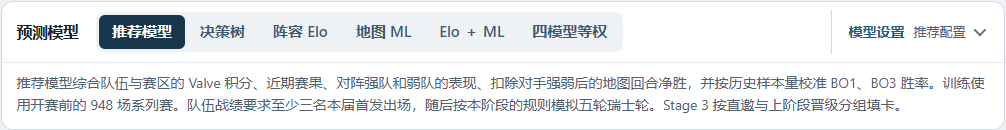
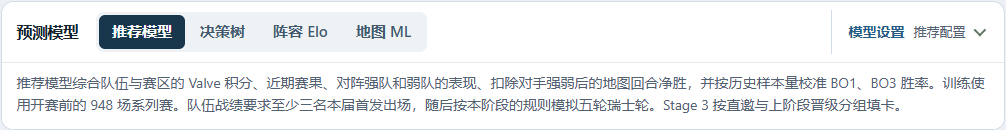
Remove ensemble choices from the prediction interface

Changed region(s): [[0.4314, 0.1846, 0.6163, 0.3077]]

diff --git a/dist/research-models.js b/dist/research-models.js
@@ -1,8 +1,8 @@
 /* Browser and worker adapter for the locally reproduced pre-event Elo and map models. */
 (() => {
   'use strict';
-  const data = {"fields":{"copenhagen":{"cutoff":"2024-03-17","series":3272,"train":3296,"cal":696,"scores":{"fourWay":{"conditional":4,"pass":4,"expected":4,"robust":4,"seed":3},"elo":{"conditional":4,"pass":3,"expected":3,"robust":3,"seed":3},"ml":{"conditional":4,"pass":5,"expected":3,"robust":3,"seed":3},"hybrid":{"conditional":4,"pass":5,"expected":2,"robust":2,"seed":3}}},"copenhagen-2024-2":{"cutoff":"2024-03-21","series":3341,"train":3373,"cal":718,"scores":{"fourWay":{"conditional":7,"pass":5,"expected":5,"robust":5,"seed":6},"elo":{"conditional":7,"pass":5,"expected":5,"robust":5,"seed":6},"ml":{"conditional":7,"pass":5,"expected":5,"robust":5,"seed":6},"hybrid":{"conditional":6,"pass":4,"expected":4,"robust":4,"seed":6}}},"shanghai":{"cutoff":"2024-11-30","series":4668,"train":9187,"cal":1469,"scores":{"fourWay":{"conditional":6,"pass":3,"expected":5,"robust":5,"seed":3},"elo":{"conditional":6,"pass":5,"expected":6,"robust":6,"seed":3},"ml":{"conditional":3,"pass":2,"expected":5,"robust":5,"seed":3},"hybrid":{"conditional":6,"pass":5,"expected":6,"robust":6,"seed":3}}},"shanghai-2024-2":{"cutoff":"2024-12-05","series":4546,"train":9151,"cal":1472,"scores":{"fourWay":{"conditional":7,"pass":7,"expected":7,"robust":7,"seed":5},"elo":{"conditional":6,"pass":6,"expected":6,"robust":6,"seed":5},"ml":{"conditional":7,"pass":7,"expected":7,"robust":7,"seed":5},"hybrid":{"conditional":7,"pass":7,"expected":7,"robust":7,"seed":5}}},"austin":{"cutoff":"2025-06-03","series":4424,"train":10695,"cal":2113,"scores":{"fourWay":{"conditional":6,"pass":5,"expected":5,"robust":5,"seed":6},"elo":{"conditional":3,"pass":3,"expected":3,"robust":3,"seed":6},"ml":{"conditional":5,"pass":4,"expected":4,"robust":4,"seed":6},"hybrid":{"conditional":5,"pass":4,"expected":4,"robust":4,"seed":6}}},"austin-2025-2":{"cutoff":"2025-06-07","series":4390,"train":10613,"cal":2101,"scores":{"fourWay":{"conditional":3,"pass":2,"expected":3,"robust":3,"seed":3},"elo":{"conditional":2,"pass":2,"expected":2,"robust":2,"seed":3},"ml":{"conditional":2,"pass":3,"expected":4,"robust":4,"seed":3},"hybrid":{"conditional":2,"pass":2,"expected":4,"robust":4,"seed":3}}},"austin-2025-3":{"cutoff":"2025-06-12","series":4415,"train":10510,"cal":2028,"scores":{"fourWay":{"conditional":3,"pass":5,"expected":2,"robust":2,"seed":3},"elo":{"conditional":5,"pass":4,"expected":5,"robust":5,"seed":3},"ml":{"conditional":4,"pass":4,"expected":4,"robust":4,"seed":3},"hybrid":{"conditional":3,"pass":5,"expected":3,"robust":3,"seed":3}}},"budapest":{"cutoff":"2025-11-24","series":4865,"train":11922,"cal":2928,"scores":{"fourWay":{"conditional":5,"pass":4,"expected":4,"robust":4,"seed":6},"elo":{"conditional":4,"pass":3,"expected":3,"robust":3,"seed":6},"ml":{"conditional":5,"pass":5,"expected":4,"robust":4,"seed":6},"hybrid":{"conditional":4,"pass":3,"expected":3,"robust":3,"seed":6}}},"budapest-2025-2":{"cutoff":"2025-11-29","series":4874,"train":12179,"cal":2736,"scores":{"fourWay":{"conditional":5,"pass":6,"expected":6,"robust":6,"seed":4},"elo":{"conditional":5,"pass":4,"expected":5,"robust":5,"seed":4},"ml":{"conditional":4,"pass":4,"expected":4,"robust":4,"seed":4},"hybrid":{"conditional":4,"pass":4,"expected":4,"robust":4,"seed":4}}},"budapest-2025-3":{"cutoff":"2025-12-04","series":4912,"train":12191,"cal":2504,"scores":{"fourWay":{"conditional":3,"pass":3,"expected":3,"robust":3,"seed":4},"elo":{"conditional":3,"pass":3,"expected":3,"robust":3,"seed":4},"ml":{"conditional":3,"pass":3,"expected":3,"robust":3,"seed":4},"hybrid":{"conditional":3,"pass":3,"expected":3,"robust":3,"seed":4}}},"cologne":{"cutoff":"2026-06-02","series":3361,"train":13088,"cal":637,"scores":{"fourWay":{"conditional":3,"pass":3,"expected":2,"robust":2,"seed":4},"elo":{"conditional":2,"pass":5,"expected":5,"robust":5,"seed":4},"ml":{"conditional":2,"pass":2,"expected":2,"robust":2,"seed":4},"hybrid":{"conditional":2,"pass":2,"expected":2,"robust":2,"seed":4}}},"cologne-2026-2":{"cutoff":"2026-06-06","series":3269,"train":13058,"cal":515,"scores":{"fourWay":{"conditional":5,"pass":5,"expected":5,"robust":5,"seed":7},"elo":{"conditional":5,"pass":5,"expected":5,"robust":5,"seed":7},"ml":{"conditional":7,"pass":7,"expected":7,"robust":7,"seed":7},"hybrid":{"conditional":5,"pass":5,"expected":7,"robust":7,"seed":7}}},"cologne-2026-3":{"cutoff":"2026-06-11","series":3227,"train":13257,"cal":482,"scores":{"fourWay":{"conditional":4,"pass":4,"expected":4,"robust":4,"seed":3},"elo":{"conditional":2,"pass":1,"expected":1,"robust":1,"seed":3},"ml":{"conditional":5,"pass":5,"expected":5,"robust":5,"seed":3},"hybrid":{"conditional":4,"pass":4,"expected":4,"robust":4,"seed":3}}},"singapore":{"cutoff":"2026-11-21","series":695,"train":6746,"cal":625}},"current":{"id":"singapore","teams":["Ninjas in Pyjamas","PARIVISION","HEROIC","FaZe","Liquid","Eternal Fire","100 Thieves","9z","M80","DENDELE","Imperial","Wildcard","GOSH","FlyQuest","Chinggis Warriors","Lynn Vision"],"pairs":[[0.45764019790926336,0.4561285927558994,0.4414017077,0.41450941],[0.5009152011422198,0.500948085962229,0.4999290172,0.499919811],[0.5310920116917239,0.5322050698595533,0.5074093345,0.511733871],[0.5585972460929796,0.5606750526764679,0.5185018583,0.527700622],[0.5309786520581705,0.5320876820892948,0.4735871344,0.4622693904],[0.5547210411030631,0.5566647119492548,0.5626710754,0.5942214579],[0.5310079883530819,0.5321180608557079,0.5064204966,0.5092523176],[0.5262810662305286,0.5272228966866207,0.4961196279,0.4943322911],[0.5559033010261448,0.557887958164266,0.5052744167,0.5076030865],[0.5758304526677784,0.578495124330084,0.5790536279,0.6168649889],[0.5323711810295423,0.5335296702117883,0.563831473,0.5941104002],[0.7671200444550522,0.7740664966194908,0.5878787879,0.6304608621],[0.5920704466112959,0.5952711666047853,0.6175750162,0.6727036409],[0.78405230758855,0.7910655184954465,0.5820943423,0.6213937382],[0.5642620341087611,0.5665345470231434,0.5789737997,0.6168302123],[0.5432686021614686,0.544812174100424,0.4618059156,0.4424420556],[0.5730843676133202,0.5756566620588651,0.4923946432,0.4888803791],[0.6000088712093242,0.6034645171135709,0.5046815263,0.5056166319],[0.5729729067115424,0.5755414419040669,0.474141689,0.4606909702],[0.5962289371752478,0.5995638249296469,0.5353723729,0.5515814759],[0.5730017520251961,0.5755712601585413,0.5023408347,0.5035664557],[0.5683504185532887,0.5707624033005806,0.5005190896,0.4997759078],[0.5973823344051294,0.6007541929174927,0.4813268333,0.469213094],[0.6167570363127891,0.6207328488528536,0.5797428321,0.6176792756],[0.5743418289844636,0.5769564816048011,0.5570669214,0.5836662306],[0.796504981409154,0.8035227376433883,0.5884701912,0.6311208381],[0.6324550452436141,0.6368937633611564,0.6065567816,0.6562744699],[0.8118754134691077,0.8188436791744264,0.5756383602,0.6116181188],[0.6055244827560415,0.6091541968983851,0.5801245109,0.6182193126],[0.5301800872135056,0.5312607316824153,0.5881388948,0.6293058317],[0.5576938547444535,0.5597404628565122,0.4989203035,0.497784025],[0.5300667033645093,0.5311433162241211,0.4946304362,0.4929820767],[0.5538161265511272,0.5557283832390214,0.550513692,0.5762099887],[0.5300960459175091,0.5311737021460708,0.5506058335,0.5757798825],[0.525368193050384,0.5262774736582779,0.4859935634,0.4783199705],[0.5549988398975483,0.5569521471386902,0.4866629184,0.4797543785],[0.5749351091786634,0.577569713027931,0.674478784,0.7499382021],[0.5314595360294896,0.5325856515812887,0.560281437,0.5888630037],[0.7664563499257662,0.7733988184014081,0.5358492205,0.5546627238],[0.5911845972007341,0.5943565639179395,0.6138309356,0.6671396852],[0.7834220532906275,0.7904340090989279,0.5819200369,0.6210446063],[0.5633610582670276,0.5656027136454468,0.5866458114,0.6284713845],[0.5276978245827296,0.5286901356060507,0.4722362575,0.4577791178],[0.49988622223147455,0.4998821339790846,0.4287973038,0.394233395],[0.5237834545038006,0.5246361878033983,0.4963433057,0.4949501088],[0.4999156664407461,0.4999126361749275,0.4961329497,0.4941743627],[0.49517400866573613,0.4950006170461331,0.4505315407,0.42538439],[0.5249769702497211,0.5258722958459087,0.4280557907,0.3929280619],[0.5451447810563451,0.5467542529302197,0.5776099083,0.6146345601],[0.5012841005913552,0.501330240487439,0.5192442617,0.5286303633],[0.7438399238240172,0.7505882835510761,0.5262195228,0.5403804503],[0.5616524483191809,0.56383546911577,0.5869578992,0.6289882194],[0.7618969739328294,0.768809370128401,0.5616083635,0.5914500006],[0.5334249244148697,0.5346208055807888,0.5600216526,0.5895202673],[0.4721887320423494,0.4711923808688277,0.489620055,0.4843589345],[0.49607576706554296,0.49593477019604004,0.501819732,0.5021750093],[0.4722180894532283,0.47122278378049715,0.5180303736,0.5278656035],[0.4674927630396262,0.46632944423555317,0.5374352673,0.5554916623],[0.49727194508501665,0.4971739236542583,0.5060822655,0.5091396726],[0.5175306014240759,0.5181597679266288,0.6144291783,0.6681456191],[0.4735826912099939,0.4726360043594089,0.5859952277,0.6275888367],[0.7219122757126969,0.7283708977763163,0.5545468495,0.581184648],[0.5341773735124384,0.5353999365535084,0.5864724806,0.6283443931],[0.7409384305347907,0.7476539775429776,0.5878787879,0.6304608621],[0.5057474016565511,0.5059538906496792,0.5722708145,0.6070306687],[0.5238969855574769,0.5247537715996277,0.5431402527,0.5639691343],[0.5000294442103492,0.5000305021970761,0.5571672573,0.5850749135],[0.49528777656349043,0.4951184717733929,0.4754957946,0.4617057169],[0.5250904759799706,0.5259898506803101,0.488549725,0.4800742305],[0.5452576717069794,0.5468711046789946,0.6771817282,0.7539489033],[0.5013978775807588,0.5014481056169146,0.5578615555,0.5857352168],[0.7439276257846194,0.7506769502148308,0.5549021154,0.5811339827],[0.5617645722365827,0.5639514454137842,0.613544978,0.6669171947],[0.761980624265084,0.7688936144325985,0.581325366,0.6202202503],[0.533538215522218,0.5347381150038272,0.5870350834,0.6290956052],[0.4761323945803466,0.47527665730297197,0.5011638472,0.50126622],[0.4714030772127198,0.47037875406111695,0.5209931562,0.5304985221],[0.5011962268736784,0.5012392093550295,0.5062210959,0.5096893794],[0.5214492048549355,0.5222185575658287,0.5589798483,0.5877043415],[0.477498024211091,0.4766910534056579,0.540493705,0.5603871051],[0.7250824934800583,0.7315888155053116,0.5769669519,0.614453686],[0.53808211754754,0.5394428783074569,0.561485281,0.5911380475],[0.7439739385430676,0.7507237717592141,0.5704463692,0.6043697708],[0.5096708024948731,0.5100181684259908,0.5978943606,0.6442952793],[0.495258334862934,0.49508797244790004,0.4529276194,0.429788812],[0.5250611024067564,0.525959429285494,0.4188843412,0.3800397321],[0.5452284574968919,0.5468408654487109,0.585614089,0.6269287791],[0.5013684335852779,0.5014176036656822,0.5209504073,0.5308013951],[0.7439049314726208,0.7506540064233909,0.5361486499,0.5551680251],[0.5617355565987486,0.5639214329112249,0.5742978762,0.6096455307],[0.7619589785123838,0.7688718151314196,0.5390282149,0.5579552247],[0.5335088975699271,0.5347077572088543,0.5573389679,0.5839862981],[0.5297892616044774,0.5308560080748376,0.4864149209,0.4792490866],[0.5499292588338452,0.5517061759493856,0.5991648586,0.6463559957],[0.5061099474798222,0.5063294581739497,0.4997800212,0.4997291961],[0.7475433157337131,0.7543310138890168,0.5459536308,0.5686432549],[0.5664030180376683,0.5687486832792606,0.5592841127,0.5881631214],[0.7654280572887132,0.7723641550321775,0.54922537,0.5727836443],[0.5382273867629617,0.5395932799766732,0.5183940043,0.5273531629],[0.520254960725109,0.5209816164385526,0.6139997569,0.6676270788],[0.4763042307875674,0.47545462778212677,0.4957876161,0.4938425588],[0.7241184179576471,0.7306104358015066,0.5558779959,0.5839474433],[0.5368923035006467,0.5382110026082232,0.5837282334,0.6241866274],[0.7430510216273413,0.7497906318600979,0.5780067387,0.6153127094],[0.5084749496445621,0.5087793870011128,0.5845319311,0.6256111386],[0.4561296144823584,0.45456489119995663,0.4295293031,0.3951598828],[0.707484763968886,0.7137028718644292,0.425539428,0.3901025981],[0.5166849138816089,0.5172837954353553,0.5,0.5],[0.7271009821603714,0.733636677718589,0.5254237288,0.5381027272],[0.48821226922105027,0.48778893895779885,0.4219425024,0.3839001576],[0.7428488010170596,0.7495861477197724,0.429703397,0.3963169077],[0.5603865964832201,0.5625260806319249,0.5037997574,0.5056480035],[0.7609515413040149,0.7678571153701045,0.5780533952,0.6160937829],[0.5321460882775922,0.5332965861828339,0.496169437,0.4943041778],[0.3066292092896121,0.3006816836394054,0.5743943304,0.6097294965],[0.5239569468291715,0.5248158732192019,0.5685546018,0.6012553418],[0.28276964145314737,0.27638491110637436,0.5178229369,0.526027217],[0.7135278370455379,0.7198512759547986,0.5112988281,0.516817431],[0.4715487044226844,0.47052956500499094,0.5,0.5],[0.26354787304698485,0.2568864512654396,0.5,0.5]],"fourWayMatrix":{"allBo3":false,"bo1":[[0.5,0.4754194949850915,0.4962903766700088,0.5206252193927203,0.5299517922847883,0.4736627849795191,0.5362988435837439,0.5623143443646531,0.5421228157490071,0.5549439788160285,0.5722533626425328,0.5664860129231469,0.6775767109313142,0.620166364327825,0.678471576731287,0.6192372740203461],[0.5245805050149085,0.5,0.49170946910335467,0.5287271881338864,0.5432109320614582,0.4839437675943571,0.5340127494204945,0.5828258242015473,0.5443451331665149,0.5515745097476115,0.5722237828524653,0.5634807453394276,0.6784211111920022,0.6452494272190473,0.6759995942856298,0.6241532109569173],[0.5037096233299911,0.5082905308966453,0.5,0.5434437950178926,0.5355353829594098,0.4862786549388146,0.536251758580385,0.5661195883068078,0.5328714914476091,0.5524529075482751,0.5957618493821211,0.5604314023511091,0.628792459272439,0.6364152430835418,0.6792183001213525,0.6222608951194509],[0.4793747806072797,0.4712728118661136,0.4565562049821073,0.5,0.5025257195958549,0.4493807933871908,0.5074275744936233,0.5349236653587535,0.49712977913073797,0.5178845955482194,0.5594014752877537,0.5420469076077687,0.6120574739119953,0.6188902849558802,0.6623540582107024,0.594660896825853],[0.4700482077152117,0.45678906793854174,0.46446461704059006,0.4974742804041451,0.5,0.44929371431589493,0.4947313879658119,0.5325266614664834,0.498973263657116,0.5254557347824381,0.5360371841022351,0.527360300176419,0.5925666880350045,0.5716499885270857,0.6444627283771689,0.5873612034514342],[0.5263372150204809,0.5160562324056429,0.5137213450611854,0.5506192066128092,0.5507062856841051,0.5,0.545572220154783,0.5821599689644205,0.5312010116298993,0.5640687494782589,0.5893615613874194,0.5584571782308997,0.6445998670781681,0.6101758463597975,0.6844413508237981,0.6325321201135095],[0.4637011564162561,0.4659872505795055,0.46374824141961496,0.4925724255063767,0.505268612034188,0.45442777984521704,0.5,0.5354920806989452,0.5122214891032262,0.51874681792501,0.5454790402246663,0.5390653839840374,0.6184243739247632,0.5672768569221842,0.6724907088974889,0.6031900360540372],[0.4376856556353469,0.41717417579845273,0.4338804116931923,0.4650763346412466,0.46747333853351664,0.4178400310355796,0.46450791930105484,0.5,0.4552741328836015,0.46910158863523876,0.5046518497079999,0.48950335687834207,0.5707936680694538,0.5388445638257009,0.6385488936564043,0.5777603303989969],[0.45787718425099294,0.4556548668334851,0.46712850855239085,0.502870220869262,0.501026736342884,0.46879898837010076,0.4877785108967738,0.5447258671163985,0.5,0.5105126952106475,0.5453154086735437,0.517431360982033,0.6023931786120359,0.5636357620888479,0.6560485920016248,0.5933798284630726],[0.4450560211839714,0.4484254902523885,0.44754709245172486,0.48211540445178064,0.4745442652175619,0.4359312505217411,0.48125318207499,0.5308984113647612,0.48948730478935254,0.5,0.5223479051293416,0.5036030559307383,0.5950005580196842,0.5533917293530312,0.6135944745489106,0.5535524832503192],[0.4277466373574672,0.4277762171475346,0.404238150617879,0.44059852471224625,0.46396281589776484,0.41063843861258065,0.4545209597753338,0.4953481502920001,0.45468459132645633,0.4776520948706584,0.5,0.4812250797111307,0.5759396147167591,0.5512689929039172,0.6080881954881827,0.5331104605427954],[0.43351398707685307,0.4365192546605724,0.4395685976488909,0.4579530923922313,0.47263969982358095,0.4415428217691003,0.4609346160159626,0.510496643121658,0.482568639017967,0.4963969440692617,0.5187749202888692,0.5,0.5615755711810202,0.5531347560663259,0.6199503737688665,0.5554927860547213],[0.3224232890686857,0.3215788888079978,0.37120754072756096,0.3879425260880047,0.40743331196499555,0.3554001329218319,0.3815756260752367,0.42920633193054625,0.39760682138796416,0.40499944198031573,0.4240603852832408,0.4384244288189798,0.5,0.4749422828459,0.5471781842476288,0.4756214025590051],[0.379833635672175,0.35475057278095273,0.3635847569164582,0.3811097150441198,0.4283500114729143,0.38982415364020256,0.4327231430778158,0.46115543617429905,0.4363642379111521,0.44660827064696884,0.4487310070960828,0.44686524393367405,0.5250577171541,0.5,0.5556521694149413,0.5044949902723052],[0.321528423268713,0.3240004057143701,0.3207816998786475,0.33764594178929763,0.35553727162283105,0.3155586491762019,0.32750929110251115,0.36145110634359573,0.3439514079983752,0.3864055254510894,0.3919118045118173,0.3800496262311335,0.4528218157523712,0.4443478305850587,0.5,0.45712756042554437],[0.3807627259796539,0.3758467890430827,0.37773910488054907,0.40533910317414706,0.41263879654856583,0.3674678798864905,0.39680996394596274,0.4222396696010032,0.4066201715369275,0.44644751674968075,0.46688953945720457,0.44450721394527865,0.5243785974409949,0.4955050097276949,0.5428724395744556,0.5]],"bo3":[[0.5,0.46831851927175056,0.4962962963250111,0.5219846180596777,0.5327709348556604,0.47111060648730013,0.5446723569202918,0.5632998177403096,0.5419114391630301,0.5560223105505588,0.5823723708081092,0.5743453670187084,0.6899588425224239,0.6347487005011974,0.6900497284330112,0.6292695053989417],[0.5316814807282495,0.5,0.4872543970880935,0.5284916957202725,0.54430861993752,0.4812232216924882,0.5388987471090942,0.5837746064848836,0.544762333903338,0.5493890395507023,0.5827018468624815,0.5707842357945119,0.6908382119755607,0.658788528823433,0.6867366003619595,0.6345843399175033],[0.503703703674989,0.5127456029119065,0.5,0.55400569036012,0.5357629653624246,0.48613571827871754,0.5431538969273586,0.5726825146139481,0.5311804133745825,0.5512140993835606,0.6152853548694379,0.5678583229140588,0.6352314522163495,0.6505354221628431,0.6907524314234276,0.6332777022390558],[0.47801538194032234,0.47150830427972734,0.4459943096398799,0.5,0.4991595124266852,0.44073879412409334,0.5072924585935227,0.5344332610422988,0.4907996435508373,0.5093264947472663,0.5690600062062224,0.5444049679817897,0.6172847957187599,0.6299436202050275,0.6715425665345953,0.6023345207923327],[0.46722906514433965,0.45569138006248006,0.4642370346375754,0.5008404875733148,0.5,0.4477293463975145,0.49478495807343625,0.5347366425233006,0.5031965327060978,0.5261955811997485,0.5496235859278734,0.5375220307137727,0.6008407931759094,0.5824236074123532,0.6567871336792157,0.5961027892497162],[0.5288893935126998,0.5187767783075118,0.5138642817212824,0.5592612058759067,0.5522706536024855,0.5,0.5509936370653206,0.5891371475111021,0.5277111660073749,0.5621747195283439,0.6089567134054231,0.5654381505649386,0.6528451650107209,0.6240656188290978,0.6958933194406768,0.6433472254339118],[0.45532764307970813,0.46110125289090576,0.4568461030726414,0.4927075414064773,0.5052150419265637,0.4490063629346794,0.5,0.5353037395796016,0.5143417497903255,0.5196246344203478,0.5528525017023895,0.543836991307679,0.6294226379560766,0.5750302387371634,0.6826590176015255,0.6148771072118167],[0.43670018225969043,0.41622539351511645,0.42731748538605185,0.4655667389577012,0.46526335747669945,0.41086285248889787,0.46469626042039847,0.5,0.449446840429843,0.45961501807992317,0.5153836242209547,0.4919783963484432,0.5772357806071463,0.54822794652882,0.6450088552611632,0.5847218778587286],[0.4580885608369699,0.45523766609666216,0.46881958662541734,0.5092003564491627,0.49680346729390223,0.4722888339926251,0.4856582502096745,0.5505531595701569,0.5,0.5089879232532375,0.5575574222274288,0.5174735323805649,0.6097625091758618,0.5714419305742461,0.6636721850124908,0.5959610914165004],[0.44397768944944116,0.4506109604492976,0.4487859006164393,0.49067350525273373,0.4738044188002515,0.43782528047165614,0.48037536557965227,0.5403849819200768,0.4910120767467625,0.5,0.5359363995327024,0.5029043908543781,0.6036409243306491,0.5638360026299253,0.6246058697820996,0.5638983944644569],[0.41762762919189084,0.4172981531375185,0.3847146451305621,0.4309399937937775,0.45037641407212664,0.3910432865945769,0.4471474982976104,0.48461637577904526,0.44244257777257123,0.4640636004672975,0.5,0.4722415438155303,0.5686349342156449,0.5514187132923538,0.6128918689777372,0.5234940417769826],[0.4256546329812916,0.42921576420548807,0.43214167708594114,0.45559503201821033,0.46247796928622725,0.4345618494350613,0.4561630086923209,0.5080216036515568,0.4825264676194351,0.4970956091456219,0.5277584561844697,0.5,0.5549132855316985,0.5541316886285022,0.6311868642103889,0.5553140957310317],[0.3100411574775761,0.3091617880244392,0.36476854778365053,0.38271520428123995,0.3991592068240907,0.34715483498927907,0.3705773620439234,0.4227642193928537,0.39023749082413817,0.3963590756693508,0.4313650657843551,0.4450867144683015,0.5,0.4822891929583484,0.5555681008451363,0.47607628999731183],[0.36525129949880264,0.34121147117656714,0.3494645778371569,0.3700563797949725,0.4175763925876468,0.3759343811709023,0.4249697612628366,0.45177205347118,0.4285580694257539,0.4361639973700747,0.4485812867076462,0.44586831137149785,0.5177108070416516,0.5,0.5586126798672565,0.5042402054178818],[0.3099502715669889,0.31326339963804045,0.30924756857657243,0.32845743346540474,0.3432128663207843,0.3041066805593233,0.3173409823984745,0.3549911447388368,0.33632781498750913,0.37539413021790036,0.3871081310222628,0.3688131357896111,0.4444318991548636,0.4413873201327435,0.5,0.45546220498015805],[0.37073049460105834,0.3654156600824968,0.3667222977609442,0.3976654792076673,0.4038972107502838,0.3566527745660882,0.3851228927881833,0.41527812214127136,0.40403890858349956,0.4361016055355431,0.47650595822301745,0.44468590426896826,0.5239237100026881,0.4957597945821183,0.544537795019842,0.5]]}}};
-  const models = ['elo','ml','hybrid','fourWay'];
+  const data = {"fields":{"copenhagen":{"cutoff":"2024-03-17","series":3272,"train":3296,"cal":696,"scores":{"elo":{"conditional":4,"pass":3,"expected":3,"robust":3,"seed":3},"ml":{"conditional":4,"pass":5,"expected":3,"robust":3,"seed":3}}},"copenhagen-2024-2":{"cutoff":"2024-03-21","series":3341,"train":3373,"cal":718,"scores":{"elo":{"conditional":7,"pass":5,"expected":5,"robust":5,"seed":6},"ml":{"conditional":7,"pass":5,"expected":5,"robust":5,"seed":6}}},"shanghai":{"cutoff":"2024-11-30","series":4668,"train":9187,"cal":1469,"scores":{"elo":{"conditional":6,"pass":5,"expected":6,"robust":6,"seed":3},"ml":{"conditional":3,"pass":2,"expected":5,"robust":5,"seed":3}}},"shanghai-2024-2":{"cutoff":"2024-12-05","series":4546,"train":9151,"cal":1472,"scores":{"elo":{"conditional":6,"pass":6,"expected":6,"robust":6,"seed":5},"ml":{"conditional":7,"pass":7,"expected":7,"robust":7,"seed":5}}},"austin":{"cutoff":"2025-06-03","series":4424,"train":10695,"cal":2113,"scores":{"elo":{"conditional":3,"pass":3,"expected":3,"robust":3,"seed":6},"ml":{"conditional":5,"pass":4,"expected":4,"robust":4,"seed":6}}},"austin-2025-2":{"cutoff":"2025-06-07","series":4390,"train":10613,"cal":2101,"scores":{"elo":{"conditional":2,"pass":2,"expected":2,"robust":2,"seed":3},"ml":{"conditional":2,"pass":3,"expected":4,"robust":4,"seed":3}}},"austin-2025-3":{"cutoff":"2025-06-12","series":4415,"train":10510,"cal":2028,"scores":{"elo":{"conditional":5,"pass":4,"expected":5,"robust":5,"seed":3},"ml":{"conditional":4,"pass":4,"expected":4,"robust":4,"seed":3}}},"budapest":{"cutoff":"2025-11-24","series":4865,"train":11922,"cal":2928,"scores":{"elo":{"conditional":4,"pass":3,"expected":3,"robust":3,"seed":6},"ml":{"conditional":5,"pass":5,"expected":4,"robust":4,"seed":6}}},"budapest-2025-2":{"cutoff":"2025-11-29","series":4874,"train":12179,"cal":2736,"scores":{"elo":{"conditional":5,"pass":4,"expected":5,"robust":5,"seed":4},"ml":{"conditional":4,"pass":4,"expected":4,"robust":4,"seed":4}}},"budapest-2025-3":{"cutoff":"2025-12-04","series":4912,"train":12191,"cal":2504,"scores":{"elo":{"conditional":3,"pass":3,"expected":3,"robust":3,"seed":4},"ml":{"conditional":3,"pass":3,"expected":3,"robust":3,"seed":4}}},"cologne":{"cutoff":"2026-06-02","series":3361,"train":13088,"cal":637,"scores":{"elo":{"conditional":2,"pass":5,"expected":5,"robust":5,"seed":4},"ml":{"conditional":2,"pass":2,"expected":2,"robust":2,"seed":4}}},"cologne-2026-2":{"cutoff":"2026-06-06","series":3269,"train":13058,"cal":515,"scores":{"elo":{"conditional":5,"pass":5,"expected":5,"robust":5,"seed":7},"ml":{"conditional":7,"pass":7,"expected":7,"robust":7,"seed":7}}},"cologne-2026-3":{"cutoff":"2026-06-11","series":3227,"train":13257,"cal":482,"scores":{"elo":{"conditional":2,"pass":1,"expected":1,"robust":1,"seed":3},"ml":{"conditional":5,"pass":5,"expected":5,"robust":5,"seed":3}}},"singapore":{"cutoff":"2026-11-21","series":695,"train":6746,"cal":625}},"current":{"id":"singapore","teams":["Ninjas in Pyjamas","PARIVISION","HEROIC","FaZe","Liquid","Eternal Fire","100 Thieves","9z","M80","DENDELE","Imperial","Wildcard","GOSH","FlyQuest","Chinggis Warriors","Lynn Vision"],"pairs":[[0.45764019790926336,0.4561285927558994,0.4414017077,0.41450941],[0.5009152011422198,0.500948085962229,0.4999290172,0.499919811],[0.5310920116917239,0.5322050698595533,0.5074093345,0.511733871],[0.5585972460929796,0.5606750526764679,0.5185018583,0.527700622],[0.5309786520581705,0.5320876820892948,0.4735871344,0.4622693904],[0.5547210411030631,0.5566647119492548,0.5626710754,0.5942214579],[0.5310079883530819,0.5321180608557079,0.5064204966,0.5092523176],[0.5262810662305286,0.5272228966866207,0.4961196279,0.4943322911],[0.5559033010261448,0.557887958164266,0.5052744167,0.5076030865],[0.5758304526677784,0.578495124330084,0.5790536279,0.6168649889],[0.5323711810295423,0.5335296702117883,0.563831473,0.5941104002],[0.7671200444550522,0.7740664966194908,0.5878787879,0.6304608621],[0.5920704466112959,0.5952711666047853,0.6175750162,0.6727036409],[0.78405230758855,0.7910655184954465,0.5820943423,0.6213937382],[0.5642620341087611,0.5665345470231434,0.5789737997,0.6168302123],[0.5432686021614686,0.544812174100424,0.4618059156,0.4424420556],[0.5730843676133202,0.5756566620588651,0.4923946432,0.4888803791],[0.6000088712093242,0.6034645171135709,0.5046815263,0.5056166319],[0.5729729067115424,0.5755414419040669,0.474141689,0.4606909702],[0.5962289371752478,0.5995638249296469,0.5353723729,0.5515814759],[0.5730017520251961,0.5755712601585413,0.5023408347,0.5035664557],[0.5683504185532887,0.5707624033005806,0.5005190896,0.4997759078],[0.5973823344051294,0.6007541929174927,0.4813268333,0.469213094],[0.6167570363127891,0.6207328488528536,0.5797428321,0.6176792756],[0.5743418289844636,0.5769564816048011,0.5570669214,0.5836662306],[0.796504981409154,0.8035227376433883,0.5884701912,0.6311208381],[0.6324550452436141,0.6368937633611564,0.6065567816,0.6562744699],[0.8118754134691077,0.8188436791744264,0.5756383602,0.6116181188],[0.6055244827560415,0.6091541968983851,0.5801245109,0.6182193126],[0.5301800872135056,0.5312607316824153,0.5881388948,0.6293058317],[0.5576938547444535,0.5597404628565122,0.4989203035,0.497784025],[0.5300667033645093,0.5311433162241211,0.4946304362,0.4929820767],[0.5538161265511272,0.5557283832390214,0.550513692,0.5762099887],[0.5300960459175091,0.5311737021460708,0.5506058335,0.5757798825],[0.525368193050384,0.5262774736582779,0.4859935634,0.4783199705],[0.5549988398975483,0.5569521471386902,0.4866629184,0.4797543785],[0.5749351091786634,0.577569713027931,0.674478784,0.7499382021],[0.5314595360294896,0.5325856515812887,0.560281437,0.5888630037],[0.7664563499257662,0.7733988184014081,0.5358492205,0.5546627238],[0.5911845972007341,0.5943565639179395,0.6138309356,0.6671396852],[0.7834220532906275,0.7904340090989279,0.5819200369,0.6210446063],[0.5633610582670276,0.5656027136454468,0.5866458114,0.6284713845],[0.5276978245827296,0.5286901356060507,0.4722362575,0.4577791178],[0.49988622223147455,0.4998821339790846,0.4287973038,0.394233395],[0.5237834545038006,0.5246361878033983,0.4963433057,0.4949501088],[0.4999156664407461,0.4999126361749275,0.4961329497,0.4941743627],[0.49517400866573613,0.4950006170461331,0.4505315407,0.42538439],[0.5249769702497211,0.5258722958459087,0.4280557907,0.3929280619],[0.5451447810563451,0.5467542529302197,0.5776099083,0.6146345601],[0.5012841005913552,0.501330240487439,0.5192442617,0.5286303633],[0.7438399238240172,0.7505882835510761,0.5262195228,0.5403804503],[0.5616524483191809,0.56383546911577,0.5869578992,0.6289882194],[0.7618969739328294,0.768809370128401,0.5616083635,0.5914500006],[0.5334249244148697,0.5346208055807888,0.5600216526,0.5895202673],[0.4721887320423494,0.4711923808688277,0.489620055,0.4843589345],[0.49607576706554296,0.49593477019604004,0.501819732,0.5021750093],[0.4722180894532283,0.47122278378049715,0.5180303736,0.5278656035],[0.4674927630396262,0.46632944423555317,0.5374352673,0.5554916623],[0.49727194508501665,0.4971739236542583,0.5060822655,0.5091396726],[0.5175306014240759,0.5181597679266288,0.6144291783,0.6681456191],[0.4735826912099939,0.4726360043594089,0.5859952277,0.6275888367],[0.7219122757126969,0.7283708977763163,0.5545468495,0.581184648],[0.5341773735124384,0.5353999365535084,0.5864724806,0.6283443931],[0.7409384305347907,0.7476539775429776,0.5878787879,0.6304608621],[0.5057474016565511,0.5059538906496792,0.5722708145,0.6070306687],[0.5238969855574769,0.5247537715996277,0.5431402527,0.5639691343],[0.5000294442103492,0.5000305021970761,0.5571672573,0.5850749135],[0.49528777656349043,0.4951184717733929,0.4754957946,0.4617057169],[0.5250904759799706,0.5259898506803101,0.488549725,0.4800742305],[0.5452576717069794,0.5468711046789946,0.6771817282,0.7539489033],[0.5013978775807588,0.5014481056169146,0.5578615555,0.5857352168],[0.7439276257846194,0.7506769502148308,0.5549021154,0.5811339827],[0.5617645722365827,0.5639514454137842,0.613544978,0.6669171947],[0.761980624265084,0.7688936144325985,0.581325366,0.6202202503],[0.533538215522218,0.5347381150038272,0.5870350834,0.6290956052],[0.4761323945803466,0.47527665730297197,0.5011638472,0.50126622],[0.4714030772127198,0.47037875406111695,0.5209931562,0.5304985221],[0.5011962268736784,0.5012392093550295,0.5062210959,0.5096893794],[0.5214492048549355,0.5222185575658287,0.5589798483,0.5877043415],[0.477498024211091,0.4766910534056579,0.540493705,0.5603871051],[0.7250824934800583,0.7315888155053116,0.5769669519,0.614453686],[0.53808211754754,0.5394428783074569,0.561485281,0.5911380475],[0.7439739385430676,0.7507237717592141,0.5704463692,0.6043697708],[0.5096708024948731,0.5100181684259908,0.5978943606,0.6442952793],[0.495258334862934,0.49508797244790004,0.4529276194,0.429788812],[0.5250611024067564,0.525959429285494,0.4188843412,0.3800397321],[0.5452284574968919,0.5468408654487109,0.585614089,0.6269287791],[0.5013684335852779,0.5014176036656822,0.5209504073,0.5308013951],[0.7439049314726208,0.7506540064233909,0.5361486499,0.5551680251],[0.5617355565987486,0.5639214329112249,0.5742978762,0.6096455307],[0.7619589785123838,0.7688718151314196,0.5390282149,0.5579552247],[0.5335088975699271,0.5347077572088543,0.5573389679,0.5839862981],[0.5297892616044774,0.5308560080748376,0.4864149209,0.4792490866],[0.5499292588338452,0.5517061759493856,0.5991648586,0.6463559957],[0.5061099474798222,0.5063294581739497,0.4997800212,0.4997291961],[0.7475433157337131,0.7543310138890168,0.5459536308,0.5686432549],[0.5664030180376683,0.5687486832792606,0.5592841127,0.5881631214],[0.7654280572887132,0.7723641550321775,0.54922537,0.5727836443],[0.5382273867629617,0.5395932799766732,0.5183940043,0.5273531629],[0.520254960725109,0.5209816164385526,0.6139997569,0.6676270788],[0.4763042307875674,0.47545462778212677,0.4957876161,0.4938425588],[0.7241184179576471,0.7306104358015066,0.5558779959,0.5839474433],[0.5368923035006467,0.5382110026082232,0.5837282334,0.6241866274],[0.7430510216273413,0.7497906318600979,0.5780067387,0.6153127094],[0.5084749496445621,0.5087793870011128,0.5845319311,0.6256111386],[0.4561296144823584,0.45456489119995663,0.4295293031,0.3951598828],[0.707484763968886,0.7137028718644292,0.425539428,0.3901025981],[0.5166849138816089,0.5172837954353553,0.5,0.5],[0.7271009821603714,0.733636677718589,0.5254237288,0.5381027272],[0.48821226922105027,0.48778893895779885,0.4219425024,0.3839001576],[0.7428488010170596,0.7495861477197724,0.429703397,0.3963169077],[0.5603865964832201,0.5625260806319249,0.5037997574,0.5056480035],[0.7609515413040149,0.7678571153701045,0.5780533952,0.6160937829],[0.5321460882775922,0.5332965861828339,0.496169437,0.4943041778],[0.3066292092896121,0.3006816836394054,0.5743943304,0.6097294965],[0.5239569468291715,0.5248158732192019,0.5685546018,0.6012553418],[0.28276964145314737,0.27638491110637436,0.5178229369,0.526027217],[0.7135278370455379,0.7198512759547986,0.5112988281,0.516817431],[0.4715487044226844,0.47052956500499094,0.5,0.5],[0.26354787304698485,0.2568864512654396,0.5,0.5]]}};
+  const models = ['elo','ml'];
   const has = family => models.includes(family);
   const matricesByFamily = new Map();
   function describe(event, family) {
@@ -10,16 +10,13 @@
     if (!f || !has(family)) return '';
     const elo='Elo 以 Valve 积分和可核实的选手 Rating 初始化，再按同一核心的胜负、赛制与地图分差回放此前 180 天的比赛（收录 '+f.series+' 场）。';
     const ml='地图 ML 根据赛前一年内的地图胜负、回合表现、对手强度和选手个人数据训练 XGBoost；使用 '+f.train+' 张地图训练、'+f.cal+' 张较晚的地图校准。';
-    const blend='组合模型在每组 BO1、BO3 对阵中，各取 Elo 与地图 ML 胜率的一半。Elo 回放此前 180 天的 '+f.series+' 场比赛；地图 ML 使用 Valve 积分、地图和选手表现，训练 '+f.train+' 张地图、另用 '+f.cal+' 张校准。';
-    const fourWay='推荐模型、决策树、阵容 Elo 和地图 XGBoost 分别估算 BO1 与 BO3，四套胜率各占 25%。数据包括 Valve 积分、系列赛胜负、地图回合与选手表现。';
-    return ({elo,ml,hybrid:blend,fourWay})[family]+'资料只取 '+f.cutoff+' 之前可获得的记录，队伍战绩至少保留三名同一首发。';
+    return ({elo,ml})[family]+'资料只取 '+f.cutoff+' 之前可获得的记录，队伍战绩至少保留三名同一首发。';
   }
   function matrices(event,family) {
     const current=data.current;
     if (event.id!==current.id || event.teams.some((t,i)=>t.name!==current.teams[i]) || event.teams.length!==16)
       throw Error('此阶段尚无与参赛阵容一致的封存胜率。');
     if (!has(family)) throw Error('未知研究模型。');
-    if (family==='fourWay') return current.fourWayMatrix;
     if (matricesByFamily.has(family)) return matricesByFamily.get(family);
     const result={allBo3:!!event.allBo3};
     for(const [format,k] of [['bo1',0],['bo3',1]]) {
@@ -28,8 +25,8 @@
       for(let i=0;i<16;i++)for(let j=i+1;j<16;j++,pair++) {
         const values=current.pairs[pair], e=values[k], m=values[k+2];
         const reverseMl=Number((1-m).toFixed(10));
-        rows[i][j]=family==='elo'?e:family==='ml'?m:(e+m)/2;
-        rows[j][i]=family==='elo'?1-e:family==='ml'?reverseMl:((1-e)+reverseMl)/2;
+        rows[i][j]=family==='elo'?e:m;
+        rows[j][i]=family==='elo'?1-e:reverseMl;
       }
       result[format]=rows;
     }

diff --git a/f1bre_models/browser.js b/f1bre_models/browser.js
@@ -2,7 +2,7 @@
 (() => {
   'use strict';
   const data = /*__RESEARCH_FIELDS__*/null;
-  const models = ['elo','ml','hybrid','fourWay'];
+  const models = ['elo','ml'];
   const has = family => models.includes(family);
   const matricesByFamily = new Map();
   function describe(event, family) {
@@ -10,16 +10,13 @@
     if (!f || !has(family)) return '';
     const elo='Elo 以 Valve 积分和可核实的选手 Rating 初始化，再按同一核心的胜负、赛制与地图分差回放此前 180 天的比赛（收录 '+f.series+' 场）。';
     const ml='地图 ML 根据赛前一年内的地图胜负、回合表现、对手强度和选手个人数据训练 XGBoost；使用 '+f.train+' 张地图训练、'+f.cal+' 张较晚的地图校准。';
-    const blend='组合模型在每组 BO1、BO3 对阵中，各取 Elo 与地图 ML 胜率的一半。Elo 回放此前 180 天的 '+f.series+' 场比赛；地图 ML 使用 Valve 积分、地图和选手表现，训练 '+f.train+' 张地图、另用 '+f.cal+' 张校准。';
-    const fourWay='推荐模型、决策树、阵容 Elo 和地图 XGBoost 分别估算 BO1 与 BO3，四套胜率各占 25%。数据包括 Valve 积分、系列赛胜负、地图回合与选手表现。';
-    return ({elo,ml,hybrid:blend,fourWay})[family]+'资料只取 '+f.cutoff+' 之前可获得的记录，队伍战绩至少保留三名同一首发。';
+    return ({elo,ml})[family]+'资料只取 '+f.cutoff+' 之前可获得的记录，队伍战绩至少保留三名同一首发。';
   }
   function matrices(event,family) {
     const current=data.current;
     if (event.id!==current.id || event.teams.some((t,i)=>t.name!==current.teams[i]) || event.teams.length!==16)
       throw Error('此阶段尚无与参赛阵容一致的封存胜率。');
     if (!has(family)) throw Error('未知研究模型。');
-    if (family==='fourWay') return current.fourWayMatrix;
     if (matricesByFamily.has(family)) return matricesByFamily.get(family);
     const result={allBo3:!!event.allBo3};
     for(const [format,k] of [['bo1',0],['bo3',1]]) {
@@ -28,8 +25,8 @@
       for(let i=0;i<16;i++)for(let j=i+1;j<16;j++,pair++) {
         const values=current.pairs[pair], e=values[k], m=values[k+2];
         const reverseMl=Number((1-m).toFixed(10));
-        rows[i][j]=family==='elo'?e:family==='ml'?m:(e+m)/2;
-        rows[j][i]=family==='elo'?1-e:family==='ml'?reverseMl:((1-e)+reverseMl)/2;
+        rows[i][j]=family==='elo'?e:m;
+        rows[j][i]=family==='elo'?1-e:reverseMl;
       }
       result[format]=rows;
     }

diff --git a/dist/app.js b/dist/app.js
@@ -13,7 +13,7 @@
     perfectPick: null, ordinaryPick: null, tailTeam:null, rosterTeam:'Eternal Fire'
   };
   const names = ['3–0','3–1 / 3–2','0–3','未入卡'];
-  const familyLabels = {v4:'推荐模型',boost:'决策树',elo:'阵容 Elo',ml:'地图 ML',hybrid:'Elo ＋ ML',fourWay:'四模型等权'};
+  const familyLabels = {v4:'推荐模型',boost:'决策树',elo:'阵容 Elo',ml:'地图 ML'};
   const isResearch=()=>globalThis.PickResearchModels?.has(state.family)===true;
   const savedMethods = new Map();
   const slotTitles = ['全胜','普通晋级','全败'];

diff --git a/dist/index.html b/dist/index.html
@@ -48,8 +48,6 @@
           <button type="button" data-family="boost" aria-pressed="false">决策树</button>
           <button type="button" data-family="elo" aria-pressed="false">阵容 Elo</button>
           <button type="button" data-family="ml" aria-pressed="false">地图 ML</button>
-          <button type="button" data-family="hybrid" aria-pressed="false">Elo ＋ ML</button>
-          <button type="button" data-family="fourWay" aria-pressed="false">四模型等权</button>
         </div>
       </div>
       <details class="method-settings" id="strategy-settings">

diff --git a/ui/app.js b/ui/app.js
@@ -13,7 +13,7 @@
     perfectPick: null, ordinaryPick: null, tailTeam:null, rosterTeam:'Eternal Fire'
   };
   const names = ['3–0','3–1 / 3–2','0–3','未入卡'];
-  const familyLabels = {v4:'推荐模型',boost:'决策树',elo:'阵容 Elo',ml:'地图 ML',hybrid:'Elo ＋ ML',fourWay:'四模型等权'};
+  const familyLabels = {v4:'推荐模型',boost:'决策树',elo:'阵容 Elo',ml:'地图 ML'};
   const isResearch=()=>globalThis.PickResearchModels?.has(state.family)===true;
   const savedMethods = new Map();
   const slotTitles = ['全胜','普通晋级','全败'];

diff --git a/ui/index.html b/ui/index.html
@@ -48,8 +48,6 @@
           <button type="button" data-family="boost" aria-pressed="false">决策树</button>
           <button type="button" data-family="elo" aria-pressed="false">阵容 Elo</button>
           <button type="button" data-family="ml" aria-pressed="false">地图 ML</button>
-          <button type="button" data-family="hybrid" aria-pressed="false">Elo ＋ ML</button>
-          <button type="button" data-family="fourWay" aria-pressed="false">四模型等权</button>
         </div>
       </div>
       <details class="method-settings" id="strategy-settings">

diff --git a/README.md b/README.md
@@ -40,11 +40,9 @@ B 卡方法在相同五届 Stage 1 中过关 **4/5**，命中 **28/50**。表中
 
 - **交作业前**打开本阶段预测，看每个位置、队伍首发和推荐理由。[预测与阵容](https://cs2-pickem-matchlab.dustydell9.chatgpt.site/#picks/rosters)
 - **想换一支队**就打开从左到右的瑞士轮对阵图，手动选一场胜者，查看后续可能遇到的对手。[手动推演](https://cs2-pickem-matchlab.dustydell9.chatgpt.site/#bracket)
-- **想核对模型**可单选推荐模型、决策树、阵容 Elo、地图 ML、Elo ＋ ML 或四模型等权，在右侧查看对应配置的各阶段历史命中，并可查看逐届成绩。[模型与历史表现](https://cs2-pickem-matchlab.dustydell9.chatgpt.site/#picks)
+- **想核对模型**可单选推荐模型、决策树、阵容 Elo或地图 ML，在右侧查看对应配置的各阶段历史命中，并可查看逐届成绩。[模型与历史表现](https://cs2-pickem-matchlab.dustydell9.chatgpt.site/#picks)
 
-目前开放 Stage 1。Stage 2、3 入口会在晋级队伍和首发确定、对应数据发布后开放。Elo ＋ ML 对每场 BO1、BO3 等权平均两套赛前胜率，四模型等权另将推荐模型、决策树、阵容 Elo 与地图 ML 各计 25%。六个选项使用同一套瑞士轮对阵规则。预测图取自 Sites 桌面版，展示参赛队标。
-
-四模型等权在 Stage 2 中 27/50 格、过 4/5 届；Stage 3 中 10/30 格、过 0/3 届。完整实验区分胜率与填法，并列出 BO1、BO3 误差。[四模型对照](f1bre_models/four_way/RESULTS.md)
+目前开放 Stage 1。Stage 2、3 入口会在晋级队伍和首发确定、对应数据发布后开放。四个模型使用同一套瑞士轮对阵规则。预测图取自 Sites 桌面版，展示参赛队标。
 
 ## 最近验证了什么？
 
